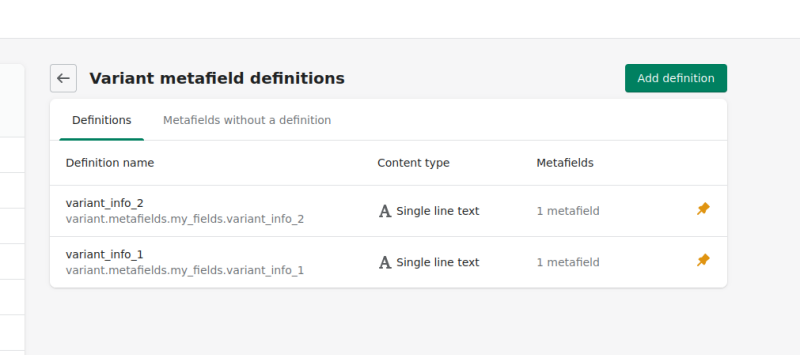
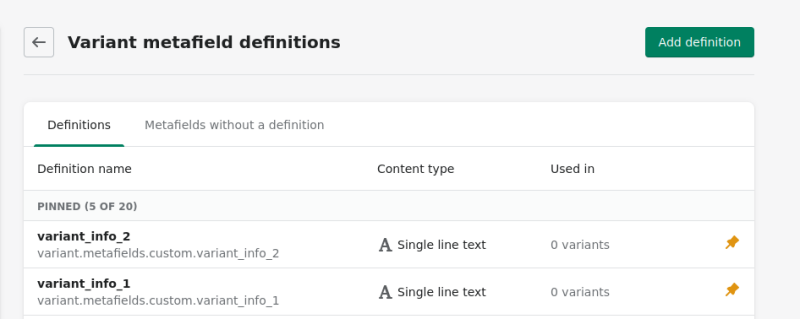
updated code in variant metafield post

diff --git a/tips/product-variant-metafields.md b/tips/product-variant-metafields.md
@@ -9,32 +9,23 @@ tags:
 layout: layouts/post.njk
 ---
 
-By using metafields we can store extra information on products, collections, customers, orders, blogs, pages and your shop. Then, you can use the metafield object to display the information on you website pages using simple Liquid code.  
+By using metafields we can store extra information on products, collections, customers, orders, blogs, pages and your shop. Then, you can use the metafield object to display the information on you website pages using simple Liquid code.
 
+Adding custom Metafields is now built into Shopify. It can be accessed via `Settings -> Metafields` in your Dashboard. Previously, the easiest way to add metafields was by using an app, such as Metafields Guru. It is also still possible to add metafields without an app using the bulk editor, [here's how](https://www.sunbowlsystems.com/blogs/how-to/metafields-in-shopify-without-using-an-app).
 
-Adding custom Metafields is now built into Shopify. It can be accessed via `Settings -> Metafields` in your Dashboard (currently, you can only add metafields to Products and Variants with this method; Collections, Customers and Orders will be added soon). Previously, the easiest way to add metafields was by using an app, such as Metafields Guru. It is also still possible to add metafields without an app using the bulk editor, [here's how](https://www.sunbowlsystems.com/blogs/how-to/metafields-in-shopify-without-using-an-app).  
+A metafield consists of a namespace, a key, a value, and an optional description. The namespace is used to logically group different metafields.
 
+You can also add metafields to the product variants, but it is a little more complicated to access the variant metafield information on your page. Variant metafields can display different information depending on the selected variant. To achieve this it's necessary to update the information depending on a change to the selected variant. This involves updating the javascript code connected to the selector.
 
-A metafield consists of a namespace, a key, a value, and an optional description. The namespace is used to logically group different metafields.  
+Here is an explanation on how to achieve this with the Dawn theme, it will differ slightly depending the theme you are using.
 
+These instructions assume that you have already added 2 metafields for a variant (in this case called `variant_info_1` and `variant_info_2`) and that you have added these two metafields to at least one of your product variants.
 
-You can also add metafields to the product variants, but it is a little more complicated to access the variant metafield information on your page. Variant metafields can display different information depending on the selected variant. To achieve this it's necessary to update the information depending on a change to the selected variant. This involves updating the javascript code connected to the selector.  
+![shopify theme settings](/img/metafield-definitions.png)
 
+First, here's how to display one extra information field depending on a selected product variant:
 
-Here is an explanation on how to achieve this with the Dawn theme, it will differ slightly depending the theme you are using.  
-
-
-These instructions assume that you have already added 2 metafields for a variant (in this case called `variant_info_1` and `variant_info_2`) and that you have added these two metafields to at least one of your product variants.  
-
-
-![shopify theme settings](/img/metafield-definitions.png)  
-
-
-First, here's how to display one extra information field depending on a selected product variant:  
-
-
-- Add some html to the `main-product.liquid` file in the `Sections` folder (position it where you would like to display the shipping information), for example:  
-
+- Add some html to the `main-product.liquid` file in the `Sections` folder (position it where you would like to display the extra information), for example:
 
 ```
 <div class="hideAll">
@@ -49,7 +40,7 @@ First, here's how to display one extra information field depending on a selected
 
 {% capture 'meta_data_1' %}
     {% for variant in product.variants %}
-        {{variant.id}}:{{ variant.metafields.my_fields.variant_info_1 | json }}
+        {{variant.id}}:{{ variant.metafields.custom.variant_info_1 | json }}
         {% unless forloop.last %},{% endunless %}
    {% endfor %}
 {% endcapture %}
@@ -61,7 +52,7 @@ First, here's how to display one extra information field depending on a selected
 - Then, add this javascript inside `script` tags in the `main-product.liquid` file:
   {% raw %}
 
-```
+```javascript
 <script>
   const currentVariantId = {{ product.selected_or_first_available_variant.id }};
   const metaData = { {{ meta_data_1 }} };
@@ -80,11 +71,9 @@ First, here's how to display one extra information field depending on a selected
 </script>
 ```
 
-Make sure to change the naming to match your metafields. Mine is `variant.metafields.my_fields.variant_info_1`.  
+Make sure to change the naming to match your metafields. Mine is `variant.metafields.custom.variant_info_1`.
 
-
-Next, in the case of the Dawn theme, you need to update the `global.js` file in the `Assets` folder. Find the code starting with `onVariantChange()`. Below that, inside the `else` block, add another method call for `updateMeta()`:  
-
+Next, in the case of the Dawn theme, you need to update the `global.js` file in the `Assets` folder. Find the code starting with `onVariantChange()`. Below that, inside the `else` block, add another method call for `updateMeta()`:
 
 ```
    onVariantChange() {
@@ -109,10 +98,9 @@ Next, in the case of the Dawn theme, you need to update the `global.js` file in 
 
 ```
 
-Then add the `updateMeta` code further down with the other update methods: 
+Then add the `updateMeta` code further down with the other update methods:
 
-
-```
+```javascript
   updateOptions() {
     this.options = Array.from(this.querySelectorAll('select'), (select) => select.value);
   }
@@ -133,15 +121,13 @@ Then add the `updateMeta` code further down with the other update methods:
 
 ```
 
-Now your variant metafield should be appearing and updating as you select different variant options.  
+Now your variant metafield should be appearing and updating as you select different variant options.
 
+We can also add the code as a block in the `main-product.liquid` file . In this way the variant metafield becomes visible in the theme customizer and gives the option of rearranging the block position without changing the code. This involves changes to the `product.json` and the `main-product.liquid` files.
 
-We can also add the code as a block in the `main-product.liquid` file . In this way the variant metafield becomes visible in the theme customizer and gives the option of rearranging the block without changing the code. This involves changes to the `product.json` and the `main-product.liquid` files.  
+Update `product.json` in the `Templates folder` to include a new `block` (in this case, I am adding one new block called `variant_info_1`). Also, add the new block to the `block_order`(you may get an error when saving these changes until you update the `main-product.liquid` in the next step):
 
-Update `product.json` in the `Templates folder` to include a new `block` (in this case, I am adding one new block called `variant_info_1`). Also, add the new block to the `block_order`(you may get an error when saving these changes until you update the `main-product.liquid` in the next step):  
-
-
-```
+```json
 {
   "sections": {
     "main": {
@@ -156,8 +142,7 @@ Update `product.json` in the `Templates folder` to include a new `block` (in thi
         },
         "title": {
           "type": "title",
-          "settings": {
-          }
+          "settings": {}
         },
         "subtitle": {
           "type": "text",
@@ -168,8 +153,7 @@ Update `product.json` in the `Templates folder` to include a new `block` (in thi
         },
         "price": {
           "type": "price",
-          "settings": {
-          }
+          "settings": {}
         },
         "variant_picker": {
           "type": "variant_picker",
@@ -179,8 +163,7 @@ Update `product.json` in the `Templates folder` to include a new `block` (in thi
         },
         "quantity_selector": {
           "type": "quantity_selector",
-          "settings": {
-          }
+          "settings": {}
         },
         "buy_buttons": {
           "type": "buy_buttons",
@@ -190,8 +173,7 @@ Update `product.json` in the `Templates folder` to include a new `block` (in thi
         },
         "description": {
           "type": "description",
-          "settings": {
-          }
+          "settings": {}
         },
         "share": {
           "type": "share",
@@ -201,8 +183,7 @@ Update `product.json` in the `Templates folder` to include a new `block` (in thi
         },
         "variant_info_1": {
           "type": "variant_info_1",
-          "settings": {
-          }
+          "settings": {}
         }
       },
       "block_order": [
@@ -236,36 +217,25 @@ Update `product.json` in the `Templates folder` to include a new `block` (in thi
       }
     }
   },
-  "order": [
-    "main",
-    "product-recommendations"
-  ]
+  "order": ["main", "product-recommendations"]
 }
-
 ```
 
-Next, in the `main-product.json`, place `{% when 'variant_info_1' %}` before the previous code:  
-
-{% raw %}
+Next, in the `main-product.json`, place `{% when 'variant_info_1' %}` before the previous code:
 
 ```
 {% when 'variant_info_1' %}
-    <div class="hideAll">
-        <p><span>Extra Info 1: </span><span class="variant_info_1"></span></p>
-    </div>
-    {% capture 'meta_data_1' %}
-    	{% for variant in product.variants %}
-        	{{variant.id}}:{{ variant.metafields.my_fields.variant_info_1 | json }}
-        	{% unless forloop.last %},{% endunless %}
-   		{% endfor %}
-    {% endcapture %}
+<div class="hideAll">
+  <p><span>Extra Info 1: </span><span class="variant_info_1"></span></p>
+</div>
+{% capture 'meta_data_1' %} {% for variant in product.variants %}
+{{variant.id}}:{{ variant.metafields.custom.variant_info_1 | json }} {%
+unless forloop.last %},{% endunless %} {% endfor %} {% endcapture %}
 ```
 
-{% endraw %}
-There is a `{% schema %}` section at the end of the `main-product.liquid` file. Add `variant_info_1` to this schema (follow the pattern for the other fields):  
+There is a `{% schema %}` section at the end of the `main-product.liquid` file. Add `variant_info_1` to this schema (follow the pattern for the other fields):
 
-
-```
+```json
     {
       "type": "variant_info_1",
       "name": "Extra Variant Info 1",
@@ -273,16 +243,13 @@ There is a `{% schema %}` section at the end of the `main-product.liquid` file. 
     },
 ```
 
-Your new block should now appear in your theme customizer (if it doesn't show initially, click on `Add Block` and select `Extra Variant Info 1` from the list). Now you can drag the block up and down the list of blocks in the Product information section to change its position on the page. You may need to save your customizer changes (green "Save" button on top right of screen) for the variant description block to show on the product page.  
+Your new block should now appear in your theme customizer (if it doesn't show initially, click on `Add Block` and select `Extra Variant Info 1` from the list). Now you can drag the block up and down the list of blocks in the Product information section to change its position on the page. You may need to save your customizer changes (green "Save" button on top right of screen) for the variant description block to show on the product page.
 
+![shopify theme settings](/img/customizer-meta.png)
 
-![shopify theme settings](/img/customizer-meta.png)  
+If you need to add more than one extra metafield for a single variant, you will basically need to duplicate the steps above for as many extra metafields as required. In the `product.json` add an extra block for each new metafield and add each one to the `block_order`:
 
-
-If you need to add more than one extra metafield for a single variant, you will basically need to duplicate the steps above for as many extra metafiels as required. In the `product.json` add an extra block for each new metafield and add each one to the `block_order`:  
-
-
-```
+```json
  "variant_info_2": {
  "type": "variant_info_2",
  "settings": {
@@ -290,30 +257,21 @@ If you need to add more than one extra metafield for a single variant, you will 
 }
 ```
 
-In `main-product.liquid` add another `{% when %}` block of code, like before, just update with new names:  
+In `main-product.liquid` add another `{% when %}` block of code, like before, just update with new names:
 
-
-{% raw %}
-
-```
+```html
 {% when 'variant_info_2' %}
-     <div class="hideAll">
-         <p><span>Extra Info 2: </span><span class="variant_info_2"></span></p>
-     </div>
-     {% capture 'meta_data_2' %}
-    	{% for variant in product.variants %}
-        	{{variant.id}}:{{ variant.metafields.my_fields.variant_info_2 | json }}
-        	{% unless forloop.last %},{% endunless %}
-   		{% endfor %}
-     {% endcapture %}
+<div class="hideAll">
+  <p><span>Extra Info 2: </span><span class="variant_info_2"></span></p>
+</div>
+{% capture 'meta_data_2' %} {% for variant in product.variants %}
+{{variant.id}}:{{ variant.metafields.custom.variant_info_2 | json }} {% unless
+forloop.last %},{% endunless %} {% endfor %} {% endcapture %}
 ```
 
-{% endraw %}
+Add the new block to the {% raw %}`{% schema %}`{% endraw %} at the end of the file.
 
-Add the new block to the `{% schema %}` at the end of the file.  
-
-
-```
+```json
     {
       "type": "variant_info_2",
       "name": "Extra Variant Info 2",
@@ -321,11 +279,9 @@ Add the new block to the `{% schema %}` at the end of the file.
     },
 ```
 
-To deal with multiple metafields for each variant, it's probably best to update your javascript to uses loops to avoid repeating the same code:  
+To deal with multiple metafields for each variant, it's probably best to update your javascript to uses loops to avoid repeating the same code:
 
-{% raw %}
-
-```
+```javascript
 <script>
 const currentVariantId = {{ product.selected_or_first_available_variant.id }};
 const metaData = [{ {{ meta_data_1 }} }, { {{ meta_data_2 }} }];
@@ -344,21 +300,14 @@ extraVariantInfo(currentVariantId);
 </script>
 ```
 
-{% endraw %}
+The `global.js` remains unchanged from before.
 
-The `global.js` remains unchanged from before.  
+Now you should have 2 different variant metafield blocks in your customizer.
 
+The full code for the product.json is [here](https://gist.github.com/alanryn/bd6693619ff4beab129224ec188f3a4a).
 
-Now you should have 2 different variant metafield blocks in your customizer.  
+The full code for the main-product.liquid is [here](https://gist.github.com/alanryn/0a656825b92ccbb19f73369c3afdb190).
 
+This code adds 2 metafields to a product variant.
 
-The full code for the product.json is [here](https://gist.github.com/alanryn/bd6693619ff4beab129224ec188f3a4a).  
-
-
-The full code for the main-product.liquid is [here](https://gist.github.com/alanryn/0a656825b92ccbb19f73369c3afdb190).  
-
-
-This code adds 2 metafields to a product variant.  
-
-This solution is based on answers provided [here](https://community.shopify.com/c/technical-q-a/display-product-variants-metafields/td-p/555439). Credit where credit is due.  
-
+This solution is based on answers provided [here](https://community.shopify.com/c/technical-q-a/display-product-variants-metafields/td-p/555439). Credit where credit is due.
